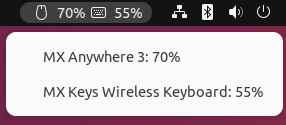
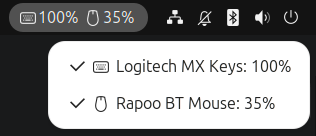
chore: More check mark to the left

diff --git a/indicator.js b/indicator.js
@@ -42,12 +42,11 @@ export const Indicator = GObject.registerClass(
             this._container.remove_all_children();
             devices.forEach((device, index) => {
                 const key = device.path + device.name;
-                const indicator = this;
                 const box = this._createBox(device, index);
                 const item = new PopupMenu.PopupImageMenuItem(device.name, device.icon);
                 const hiddenDevices = extension.getSettings().get_strv('hidden-devices');
                 const hidden = hiddenDevices.includes(key);
-                item.setOrnament(hidden ? PopupMenu.Ornament.NONE : PopupMenu.Ornament.CHECK);
+                this._setChecked(item, !hidden);
                 box.visible = !hidden;
                 item.connect('activate', () => {
                     var hiddenDevices = extension.getSettings().get_strv('hidden-devices');
@@ -58,7 +57,7 @@ export const Indicator = GObject.registerClass(
                         hiddenDevices = hiddenDevices.filter((v) => v !== key);
                     }
                     extension.getSettings().set_strv('hidden-devices', hiddenDevices);
-                    item.setOrnament(hidden ? PopupMenu.Ornament.NONE : PopupMenu.Ornament.CHECK);
+                    this._setChecked(item, !hidden);
                     box.visible = !hidden;
                 });
                 this._container.add_child(box);
@@ -66,6 +65,20 @@ export const Indicator = GObject.registerClass(
                 this.menu.addMenuItem(item);
             });
             this.add_child(this._container);
+        }
+
+        _setChecked(item, checked) {
+            if (!item._checkIcon) {
+                item._checkIcon = new St.Icon({
+                    icon_name: 'object-select-symbolic',
+                    y_align: Clutter.ActorAlign.CENTER,
+                    style_class: 'popup-menu-icon upower-battery-check',
+                });
+                item.insert_child_at_index(item._checkIcon, 0);
+            }
+            // Toggle opacity instead of visibility so the icon always
+            // reserves its space and the labels stay aligned.
+            item._checkIcon.opacity = checked ? 255 : 0;
         }
 
         _createBox(device, index) {

diff --git a/stylesheet.css b/stylesheet.css
@@ -1,2 +1,3 @@
-.upower-battery-icon { margin: 0 1px 0 5px; padding: 0; }
-.upower-battery-label { margin: 0 6px 0 0; padding: 0; }
+.upower-battery-icon { margin: 0 1px 0 2px; padding: 0; }
+.upower-battery-label { margin: 0 5px 0 0; padding: 0; }
+.upower-battery-check { margin: 0 1px 0 2px; padding: 0; }
